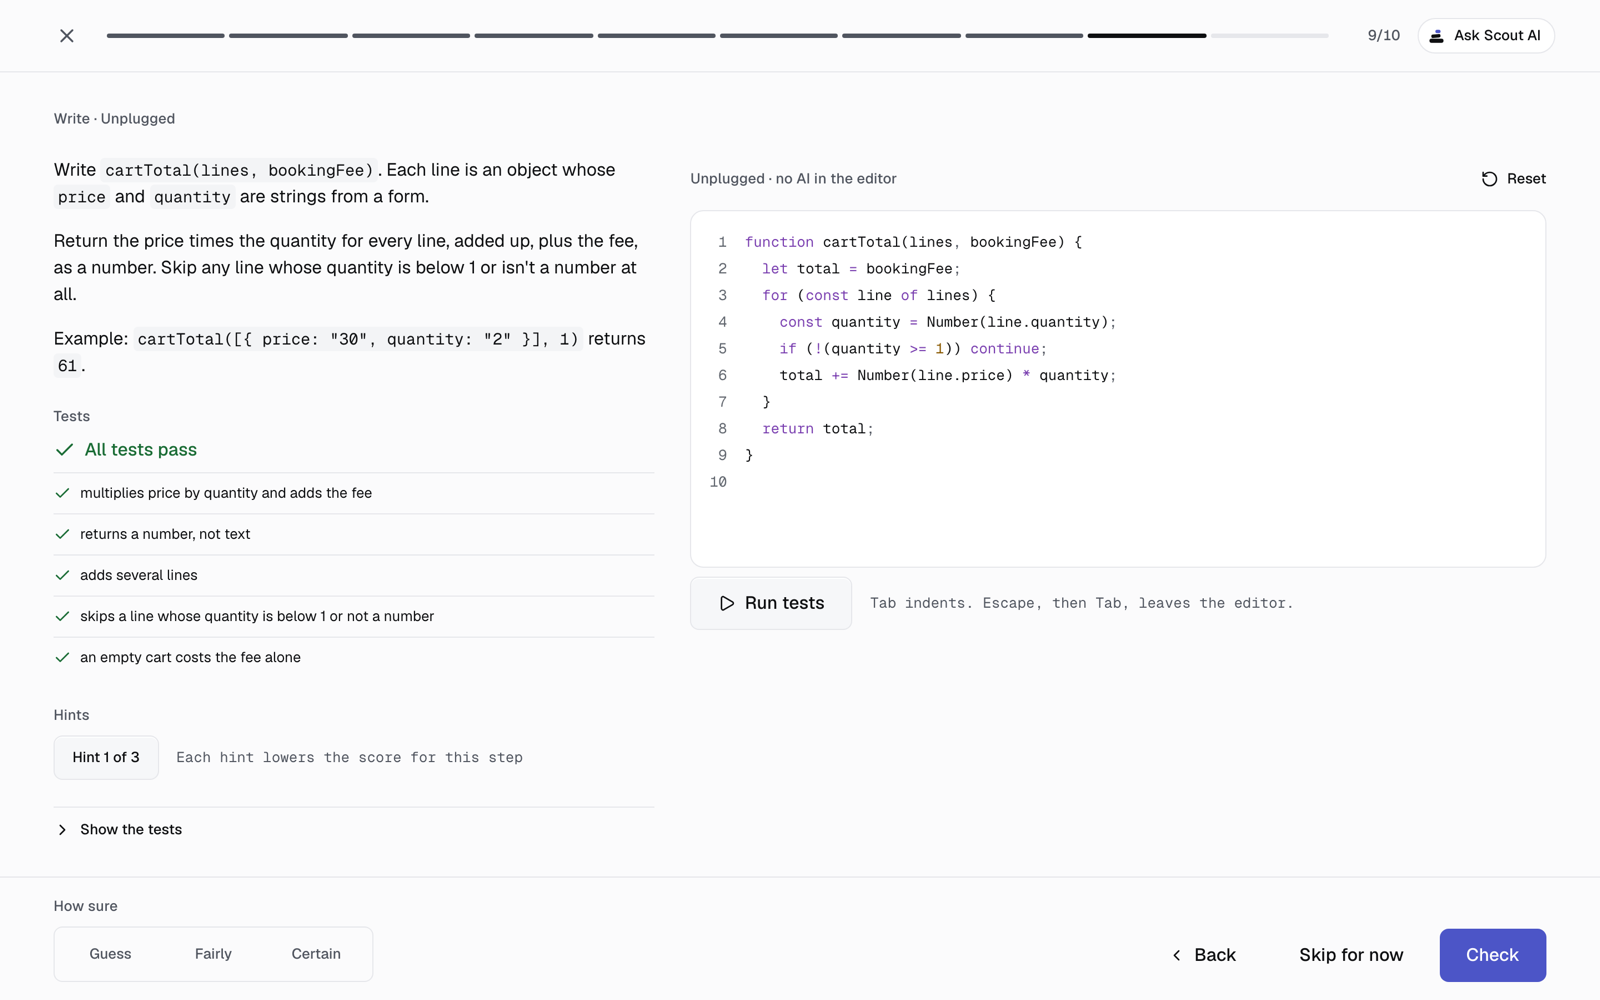
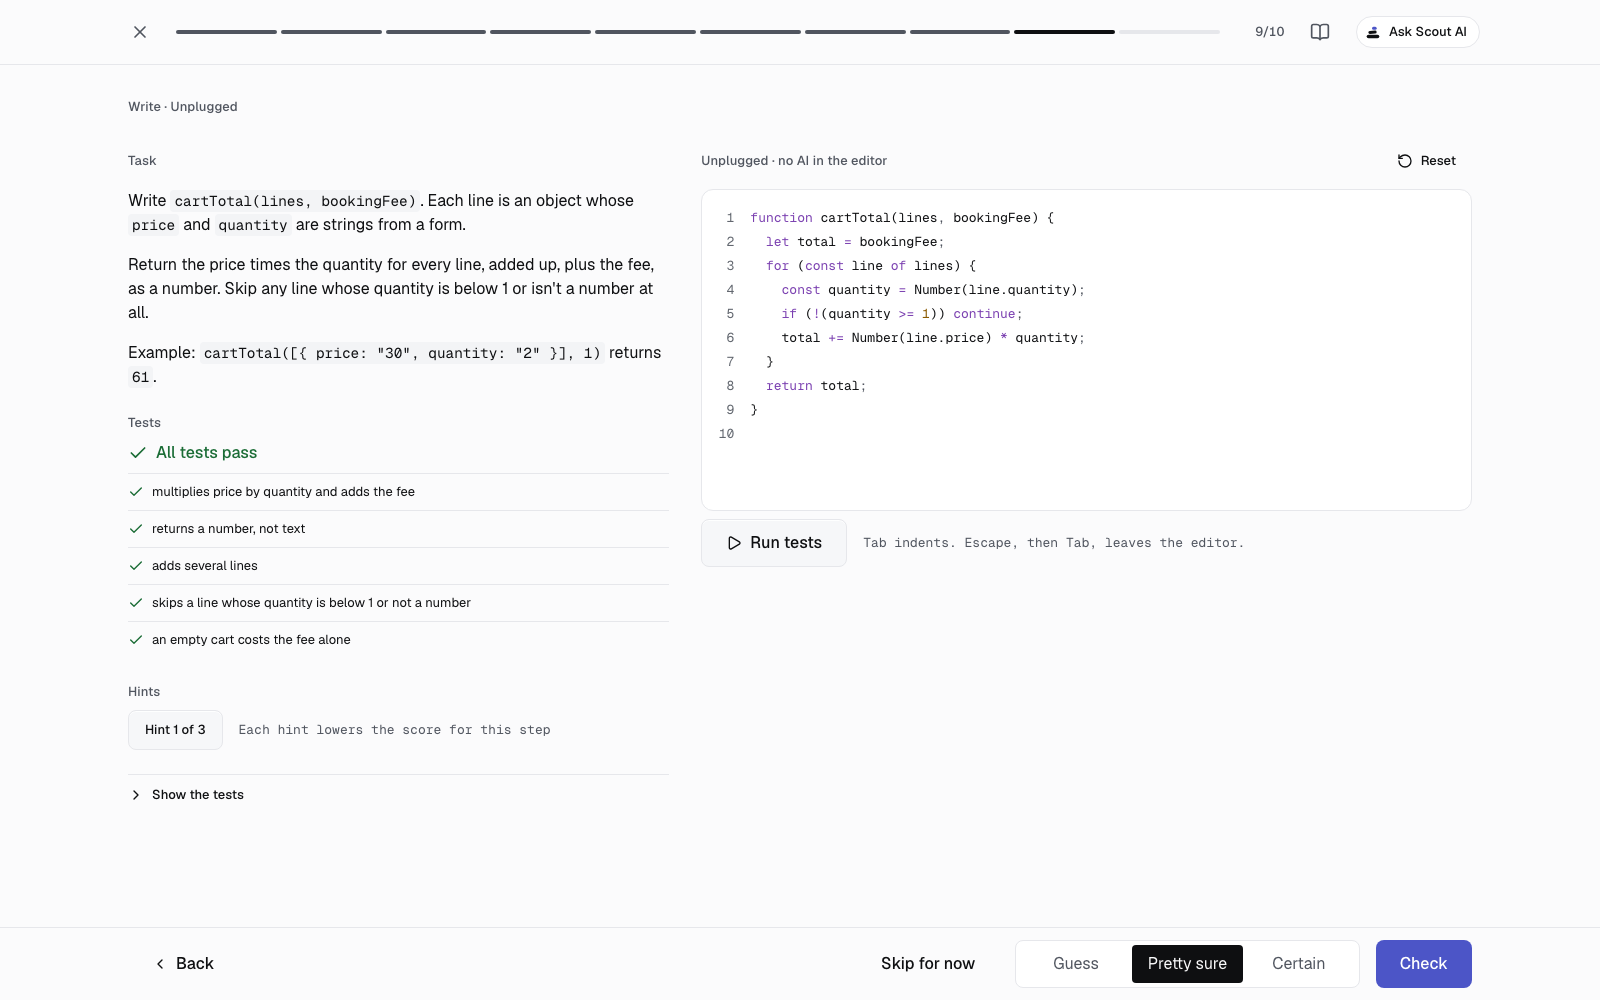
Retake the README's lesson step and Scout screenshots with the current step bar and docked Scout

diff --git a/README.md b/README.md
@@ -98,7 +98,7 @@ answer. It replies with short explanations and highlighted code you can copy.
 
 <picture>
   <source media="(prefers-color-scheme: dark)" srcset="docs/assets/readme/scout-dark.png">
-  <img alt="Scout AI open beside a code challenge. The learner asked for a hint, not the answer, and Scout, running on Claude on this machine, explains converting the form's strings to numbers first, without giving the solution." src="docs/assets/readme/scout-light.png" width="100%">
+  <img alt="Scout AI docked beside a code challenge. The learner asked for a hint, not the answer, and Scout, running on Claude on this machine, explains converting the form's strings to numbers first, with a small example and without the solution." src="docs/assets/readme/scout-light.png" width="100%">
 </picture>
 
 It is built to keep you thinking. On an exercise it gives a hint first, then a nudge, and
@@ -228,7 +228,7 @@ closing the lesson returns you to the page you opened it from.
 
 <picture>
   <source media="(prefers-color-scheme: dark)" srcset="docs/assets/readme/challenge-dark.png">
-  <img alt="A code challenge. The learner has written cartTotal and all five tests pass." src="docs/assets/readme/challenge-light.png" width="100%">
+  <img alt="A code challenge. The learner has written cartTotal and all five tests pass. The bar below reads Back, Skip for now, Guess, Pretty sure or Certain, and Check." src="docs/assets/readme/challenge-light.png" width="100%">
 </picture>
 
 **Playgrounds** render HTML, CSS, JavaScript and React as you type, and check the page itself: its elements, its text, what happens on a click.
